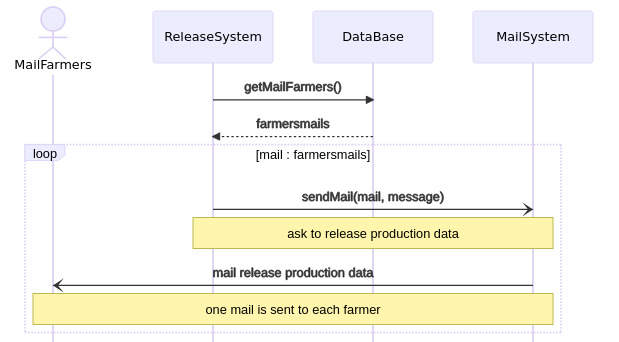
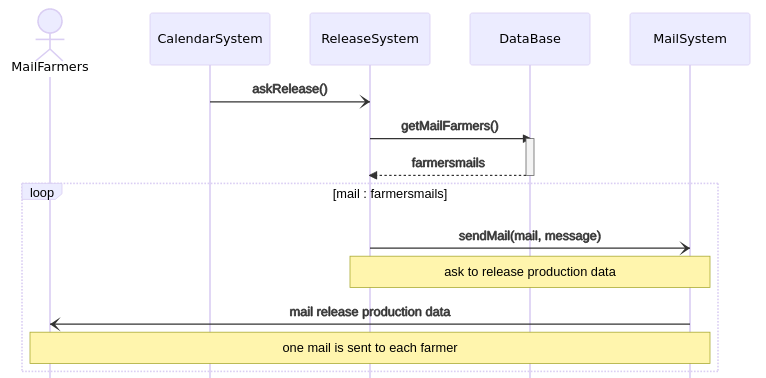
seq diag add localization and calendar

diff --git a/uml/UMLdd.html b/uml/UMLdd.html
@@ -371,21 +371,24 @@ code {
     actor Farmer
     participant AuthentificationSystem
     participant DataBase
-    participant Mail
+    participant MailSystem
+    participant GeolocalizationSystem
     actor PolicyMaker
     Farmer->>+AuthentificationSystem: registerAsFarmer(name, surname, password, email, location, geotracking)
     AuthentificationSystem->>+DataBase: exists(email)
     DataBase-->>-AuthentificationSystem: query response
     alt no email corresponding
-        AuthentificationSystem-)Mail: verificationEmail(email, randomIdentifier)
-        Mail-)Farmer: send email verification
+        AuthentificationSystem-)MailSystem: verificationEmail(email, randomIdentifier)
+        MailSystem-)Farmer: send email verification
         Farmer-)AuthentificationSystem: verification link
         AuthentificationSystem->>+DataBase: insertUser
         DataBase-->>-AuthentificationSystem: done
+        AuthentificationSystem->>+ GeolocalizationSystem: verify(location)
+        GeolocalizationSystem-->>-AuthentificationSystem: location
         AuthentificationSystem->>+DataBase: retrieveEmailPolicyMaker(location)
         DataBase-->>-AuthentificationSystem: emailPolicyMaker
-        AuthentificationSystem-)Mail: sendEmail(emailPolicyMaker)
-        Mail-)PolicyMaker: sendEmail(email)
+        AuthentificationSystem-)MailSystem: sendEmail(emailPolicyMaker)
+        MailSystem-)PolicyMaker: sendEmail(email)
         AuthentificationSystem-->>Farmer: done
     else
         AuthentificationSystem-->>-Farmer: email already in use
@@ -426,8 +429,9 @@ code {
 <h2 id="send-mail-asking-for-prod-data">send mail asking for prod data</h2>
 <pre><code class="language-mermaid"><div class="mermaid">sequenceDiagram
     actor MailFarmers
-    ReleaseSystem ->> DataBase: getMailFarmers()
-    DataBase -->> ReleaseSystem: farmersmails
+    CalendarSystem -) ReleaseSystem: askRelease()
+    ReleaseSystem ->>+ DataBase: getMailFarmers()
+    DataBase -->>- ReleaseSystem: farmersmails
     loop mail : farmersmails
         ReleaseSystem -) MailSystem: sendMail(mail, message)
         Note over ReleaseSystem, MailSystem: ask to release production data

diff --git a/uml/UMLdd.md b/uml/UMLdd.md
@@ -5,21 +5,24 @@ sequenceDiagram
     actor Farmer
     participant AuthentificationSystem
     participant DataBase
-    participant Mail
+    participant MailSystem
+    participant GeolocalizationSystem
     actor PolicyMaker
     Farmer->>+AuthentificationSystem: registerAsFarmer(name, surname, password, email, location, geotracking)
     AuthentificationSystem->>+DataBase: exists(email)
     DataBase-->>-AuthentificationSystem: query response
     alt no email corresponding
-        AuthentificationSystem-)Mail: verificationEmail(email, randomIdentifier)
-        Mail-)Farmer: send email verification
+        AuthentificationSystem-)MailSystem: verificationEmail(email, randomIdentifier)
+        MailSystem-)Farmer: send email verification
         Farmer-)AuthentificationSystem: verification link
         AuthentificationSystem->>+DataBase: insertUser
         DataBase-->>-AuthentificationSystem: done
+        AuthentificationSystem->>+ GeolocalizationSystem: verify(location)
+        GeolocalizationSystem-->>-AuthentificationSystem: location
         AuthentificationSystem->>+DataBase: retrieveEmailPolicyMaker(location)
         DataBase-->>-AuthentificationSystem: emailPolicyMaker
-        AuthentificationSystem-)Mail: sendEmail(emailPolicyMaker)
-        Mail-)PolicyMaker: sendEmail(email)
+        AuthentificationSystem-)MailSystem: sendEmail(emailPolicyMaker)
+        MailSystem-)PolicyMaker: sendEmail(email)
         AuthentificationSystem-->>Farmer: done
     else
         AuthentificationSystem-->>-Farmer: email already in use
@@ -66,8 +69,9 @@ sequenceDiagram
 ```mermaid
 sequenceDiagram
     actor MailFarmers
-    ReleaseSystem ->> DataBase: getMailFarmers()
-    DataBase -->> ReleaseSystem: farmersmails
+    CalendarSystem -) ReleaseSystem: askRelease()
+    ReleaseSystem ->>+ DataBase: getMailFarmers()
+    DataBase -->>- ReleaseSystem: farmersmails
     loop mail : farmersmails
         ReleaseSystem -) MailSystem: sendMail(mail, message)
         Note over ReleaseSystem, MailSystem: ask to release production data
